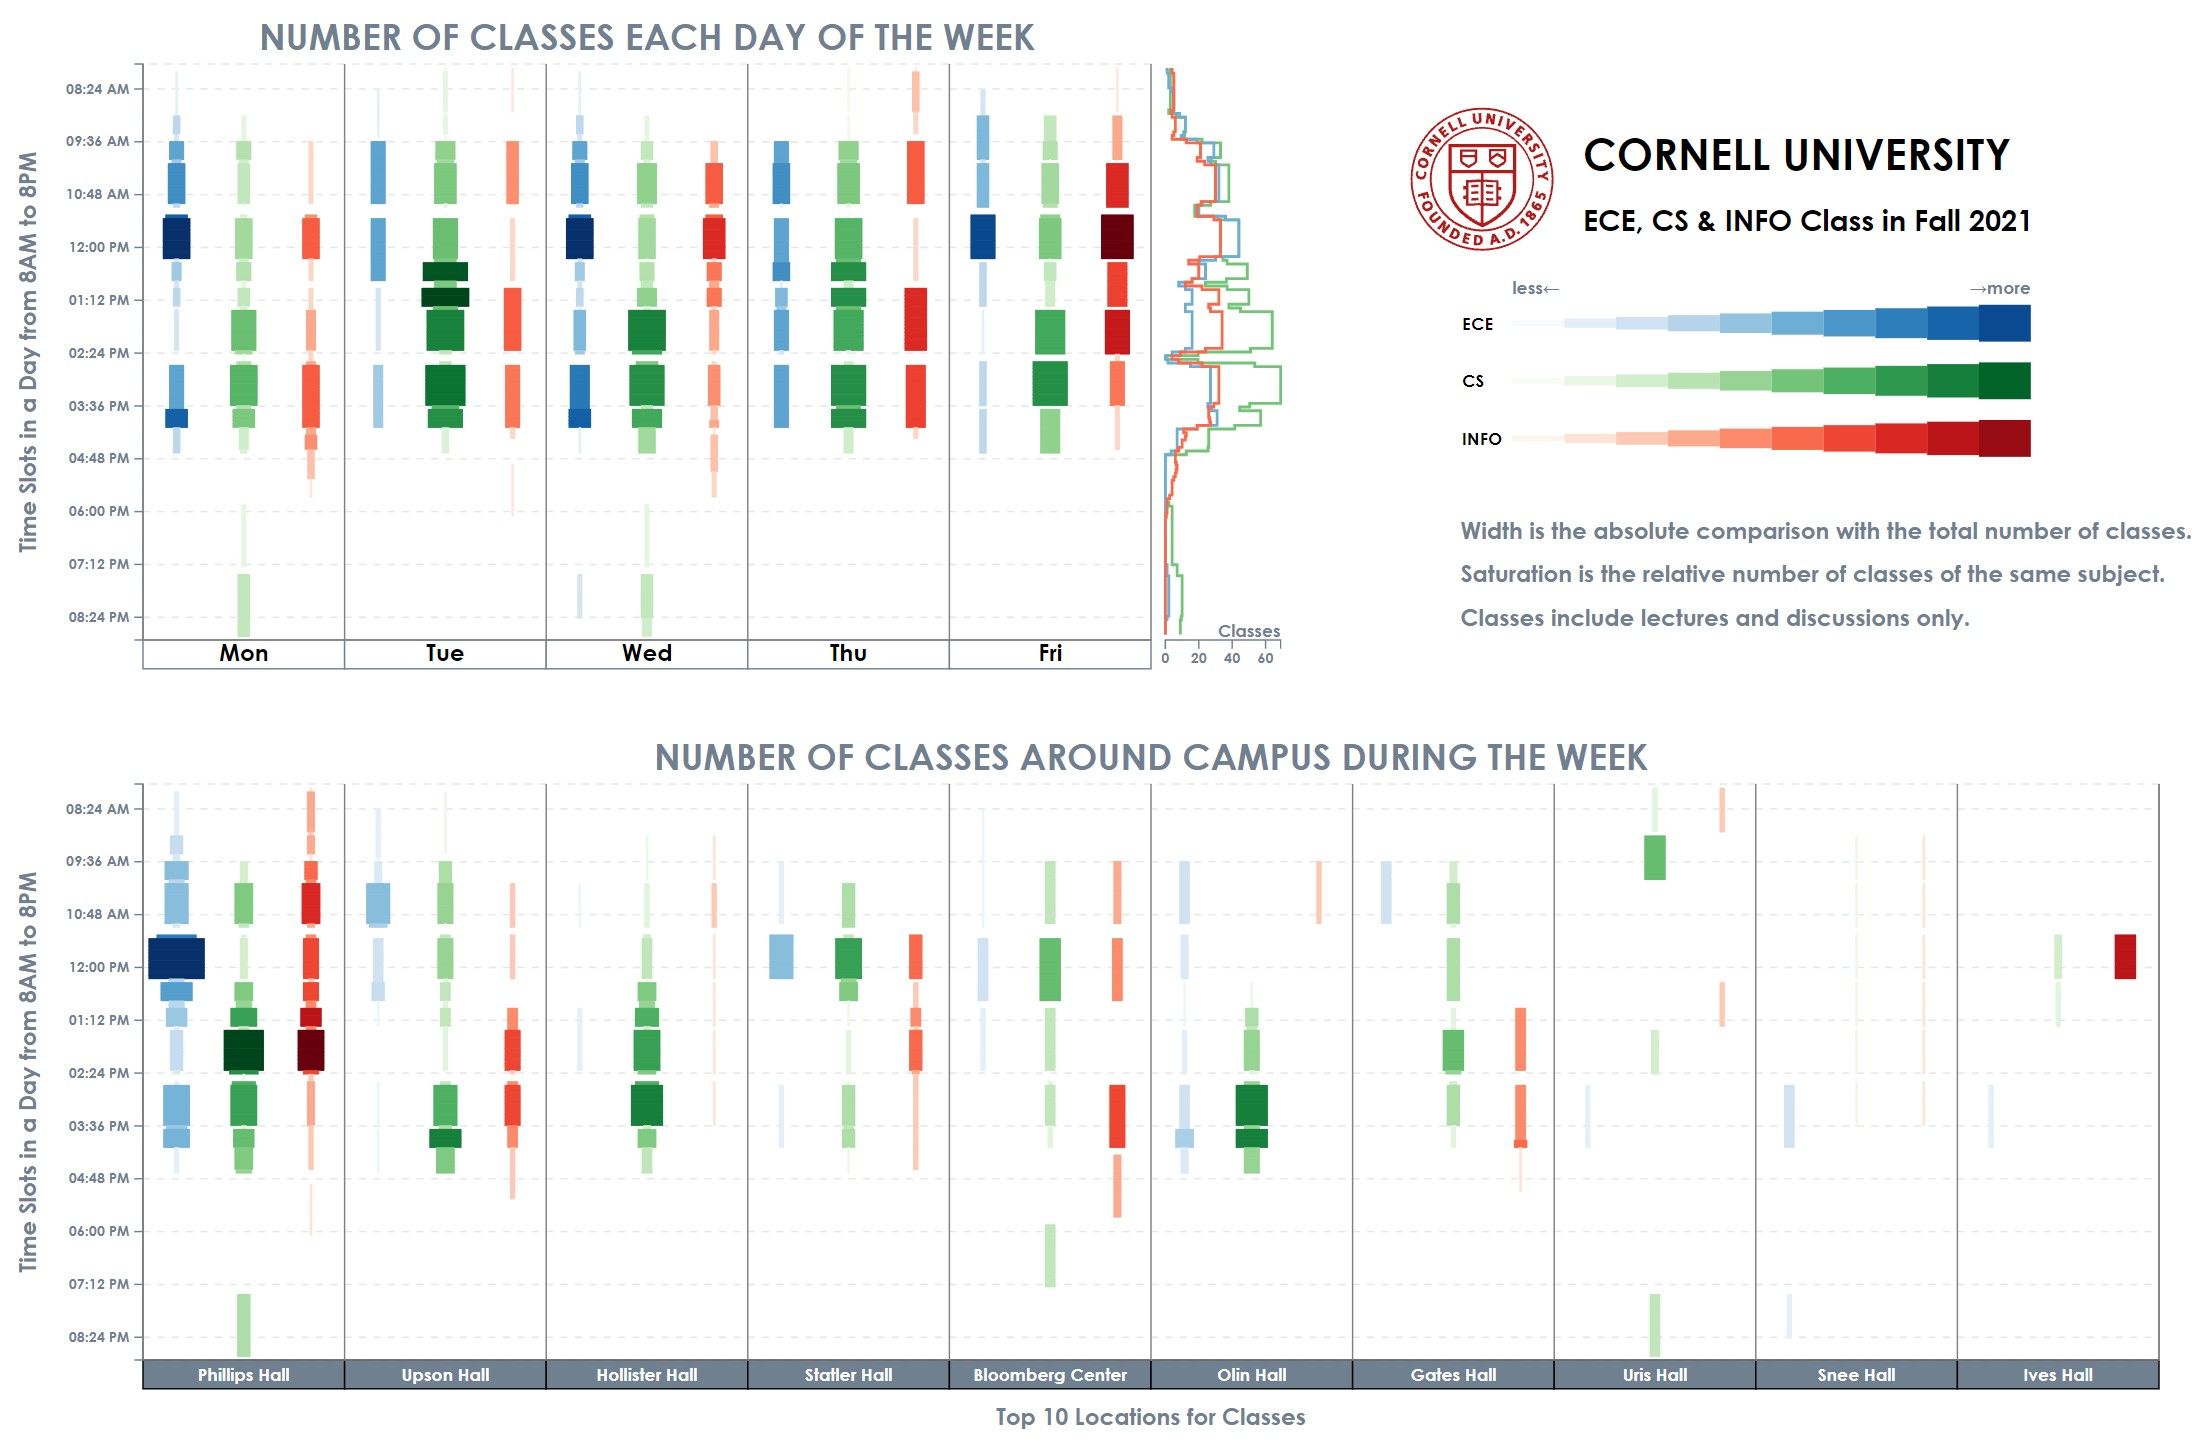
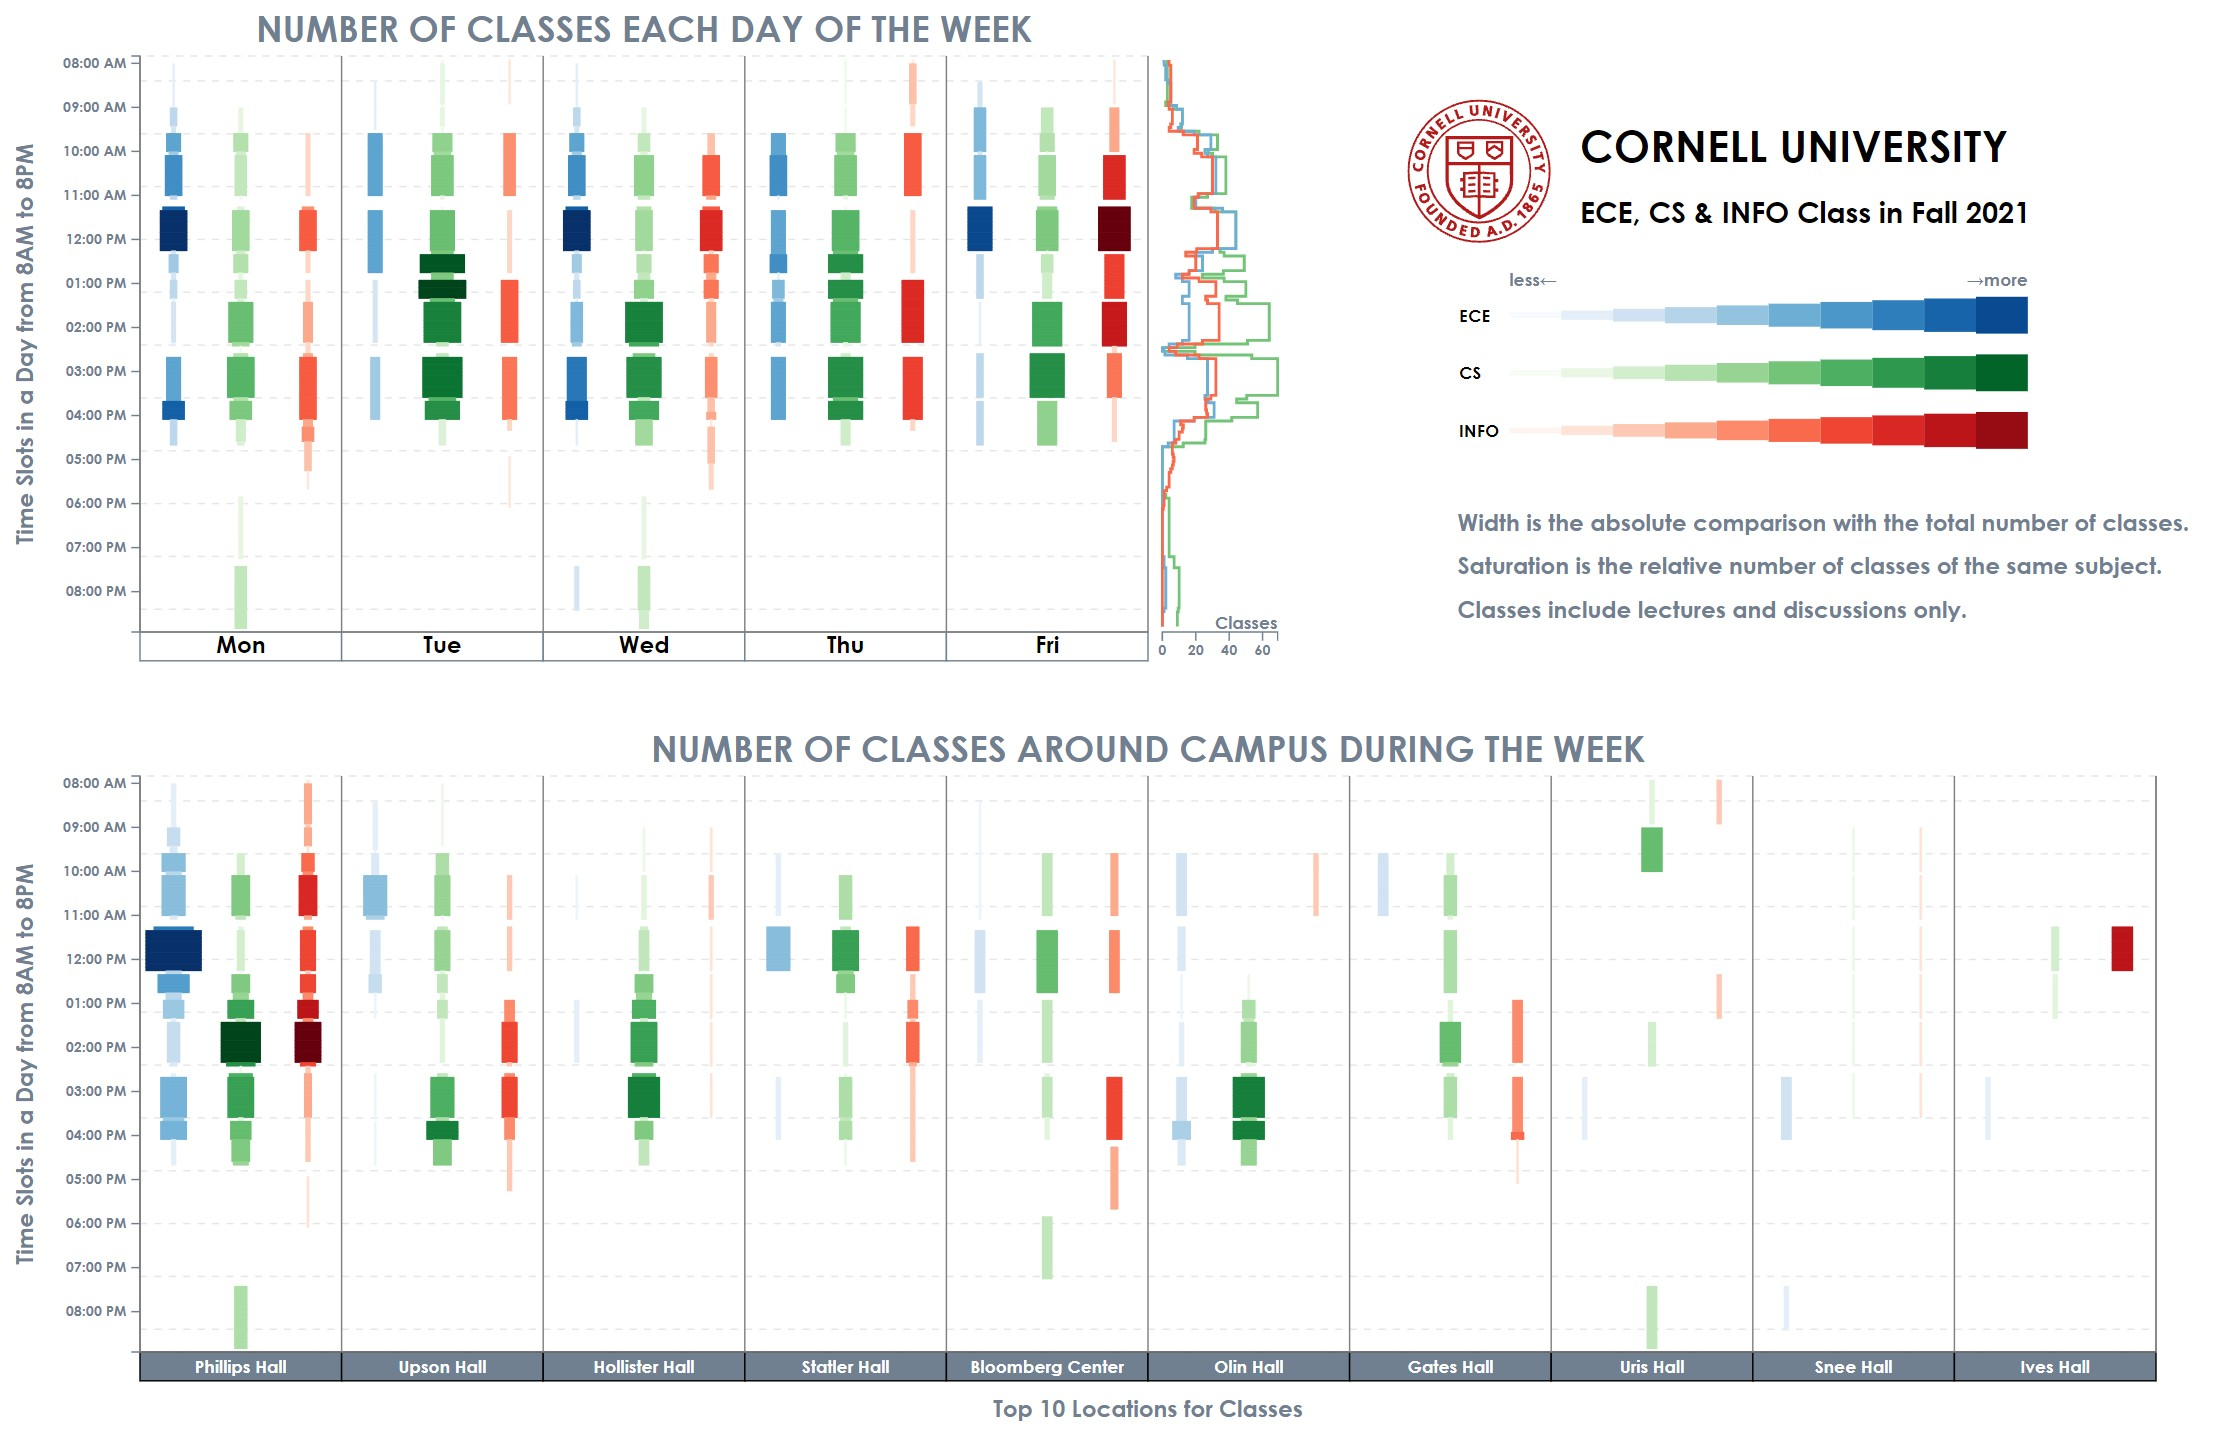
fix time for cornell class vis

diff --git a/visualizations/cornell_class/cornell_class_ece_cs_info_fall2021.html b/visualizations/cornell_class/cornell_class_ece_cs_info_fall2021.html
@@ -411,7 +411,7 @@
       const annotations = svg1.append("g").attr("id", "annotations");
 
       
-      const leftAxis = d3.axisLeft(timeScale)
+      const leftAxis = d3.axisLeft(timeScale).tickValues([8/24, 9/24, 10/24, 11/24, 12/24, 13/24, 14/24, 15/24, 16/24, 17/24, 18/24, 19/24, 20/24])
         .tickFormat((d) => {
           let min = (d * 24 - Math.floor(d * 24)) * 60;
           if (Math.floor(min) === 23) { min = 24 }
@@ -803,7 +803,7 @@
       });
 
       
-      const leftAxis = d3.axisLeft(timeScale)
+      const leftAxis = d3.axisLeft(timeScale).tickValues([8/24, 9/24, 10/24, 11/24, 12/24, 13/24, 14/24, 15/24, 16/24, 17/24, 18/24, 19/24, 20/24])
         .tickFormat((d) => {
           let min = (d * 24 - Math.floor(d * 24)) * 60;
           if (Math.floor(min) === 23) { min = 24 }
